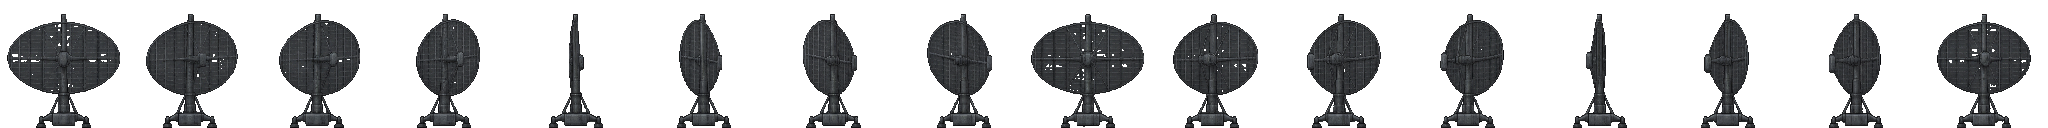
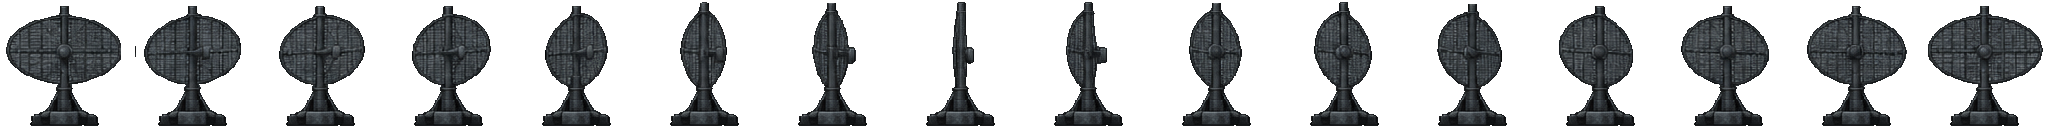
Stabilize radar frames and render missiles behind hull

Changed region(s): [[0.0, 0.0938, 1.0, 1.0]]

diff --git a/HullPlacement.js b/HullPlacement.js
@@ -31,6 +31,9 @@ export async function createHullPlacement(app, hull) {
   const fixedEngineLayer = new Container();
   fixedEngineLayer.label = 'fixed-engine-layer';
   hull.shipLayer.addChild(fixedEngineLayer);
+  const missileLayer = new Container();
+  missileLayer.label = 'missile-layer';
+  hull.shipLayer.addChild(missileLayer);
   const backgroundLayer = new Container();
   backgroundLayer.label = 'hull-background';
   hull.shipLayer.addChild(backgroundLayer);
@@ -73,7 +76,7 @@ export async function createHullPlacement(app, hull) {
       sprite.mask = mask;
     }
   }
-  function layerFor(part) { return ['GUN', 'PLANE', 'SENSOR'].includes(part.category) ? gunLayer : part.engineType === 'fixed' ? fixedEngineLayer : ['ENGINE', 'FUEL', 'AMMO', 'GENERATOR', 'CABIN', 'RUNWAY', 'MISSILE'].includes(part.category) ? engineLayer : part.category === 'ARMOR' ? armorLayer : backgroundLayer; }
+  function layerFor(part) { return part.category === 'MISSILE' ? missileLayer : ['GUN', 'PLANE', 'SENSOR'].includes(part.category) ? gunLayer : part.engineType === 'fixed' ? fixedEngineLayer : ['ENGINE', 'FUEL', 'AMMO', 'GENERATOR', 'CABIN', 'RUNWAY'].includes(part.category) ? engineLayer : part.category === 'ARMOR' ? armorLayer : backgroundLayer; }
   function hitIndex(local) {
     // フレーム背面の固定式も操作できるようENGINEを優先し、同カテゴリは新しい配置から調べる。
     for (const category of ['SENSOR', 'PLANE', 'MISSILE', 'RUNWAY', 'GUN', 'ENGINE', 'GENERATOR', 'CABIN', 'AMMO', 'FUEL', 'ARMOR', 'HULL', 'BRIDGE']) {
@@ -142,7 +145,7 @@ export async function createHullPlacement(app, hull) {
     selected = part;
     angle = 0;
     if (part) {
-      if (part.engineType === 'fixed') fixedEngineLayer.addChild(preview); else hull.shipLayer.addChild(preview);
+      if (part.category === 'MISSILE') missileLayer.addChild(preview); else if (part.engineType === 'fixed') fixedEngineLayer.addChild(preview); else hull.shipLayer.addChild(preview);
       preview.texture = textures.get(part.id);
       applyMask(preview, part);
       preview.width = part.width * GRID_SIZE;
@@ -216,7 +219,7 @@ export async function createHullPlacement(app, hull) {
   app.ticker.add(animateRadar);
   app.ticker.add(update);
   return {
-    preview, placed, backgroundLayer, armorLayer, engineLayer, fixedEngineLayer, gunLayer, exhaustOverlay, select,
+    preview, placed, backgroundLayer, armorLayer, engineLayer, fixedEngineLayer, missileLayer, gunLayer, exhaustOverlay, select,
     onAlert(callback) { onAlert = callback; },
     validateSave() {
       if (placed.some(block => findPart(block.partId).category === 'SENSOR' && !sensorSupported(block, placed))) throw new Error('SENSORの台座をブロックの上辺に接地させてください');

diff --git a/doc/design.md b/doc/design.md
@@ -350,7 +350,7 @@
 ### MISSILE
 
 - MISSILEタブにR-14 Yuliyaを追加。横1・縦2マス、64×128px透過PNG、nearest表示。上向きの白灰色ミサイルと安定翼・発射架の簡略なドット絵。
-- HULL 1x2に完全一致、またはHULL 2x2の左右半分に1個か2個を取り付ける。Rで90度回転すると上下半分にも置ける。HULL上に表示し、他装備・MISSILE同士との重なりは禁止。
+- HULL 1x2に完全一致、またはHULL 2x2の左右半分に1個か2個を取り付ける。Rで90度回転すると上下半分にも置ける。全MISSILEはHULLの裏側の専用レイヤーに表示する。選択中の半透明プレビュー、配置済み、LOAD後も同じ描画順。他装備・MISSILE同士との重なりは禁止。
 - 小型FUELと同じポインター位置の支持スナップ、半透明プレビュー、持ち直し、DEL、SAVE/LOADに対応。配置・SAVE・LOADで支持条件を検証する。
 - 仮MASSは2、人口消費は面積基準で20。発射、誘導、威力、AMMO消費、電力消費は未決定・未実装。
 
@@ -366,6 +366,7 @@
 - P-13レーダーをSENSORタブに追加。2x2マス、128×128px。P-19「ドゥナーイ」風の楕円形・網目状アンテナを灰色金属のドット絵で表現する。
 - 横から見たレーダーの16方向（22.5度刻み）を描いたスプライトシートでアニメーションする。画像の2D回転を使わず、tickerで1秒8コマを順番に切り替え、2秒で一周する。速度は暫定。
 - 各コマ128×128px、シートは2048×128pxの透過PNG。台座は各コマの下端で接地し、楕円網目アンテナの正面・斜め・側面・背面を切り替える。タブの静止アイコンは先頭コマ。nearest表示。
+- 全16コマで支柱の軸を同一座標に揃える。台座は共通画像を使い、回転による台座の移動を防ぐ。コマごとの外形に合わせた中央寄せは行わない。
 - 半透明プレビュー・配置済み・LOAD後のパーツで回転する。別パーツ選択時はプレビューのアニメーション情報を解除し、destroy時はtickerを解除する。
 - P-13は他ブロックの文字通り真上に隣接配置する。重ね配置は禁止。台座下辺128px全体を他ブロックの水平な上辺に接地させる。1個の2マス幅ブロックだけでなく、隙間なく並んだ複数ブロックの上辺も支持として認める。上側の領域では台座下辺を接地位置へスナップし、配置・SAVE・LOADで検証する。
 - Rは台座の設計角度を90度回転、アンテナの自動回転とは独立。持ち直し、DEL、SAVE/LOADに対応。保存はパーツID・位置・設計角度のみで回転位相は保存しない。
